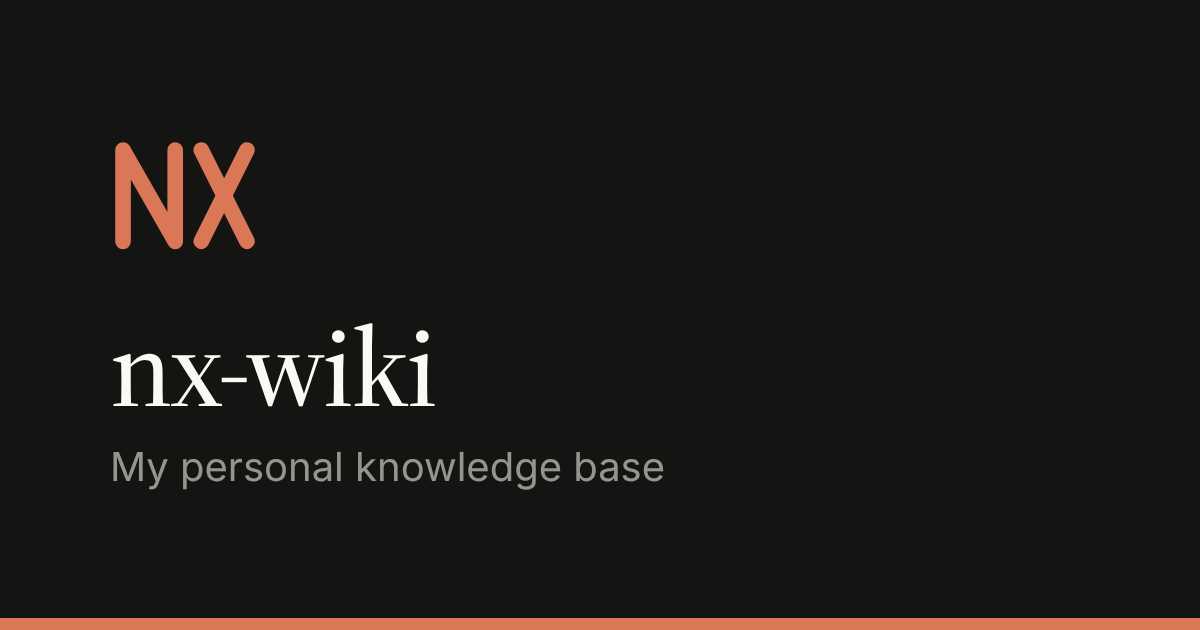
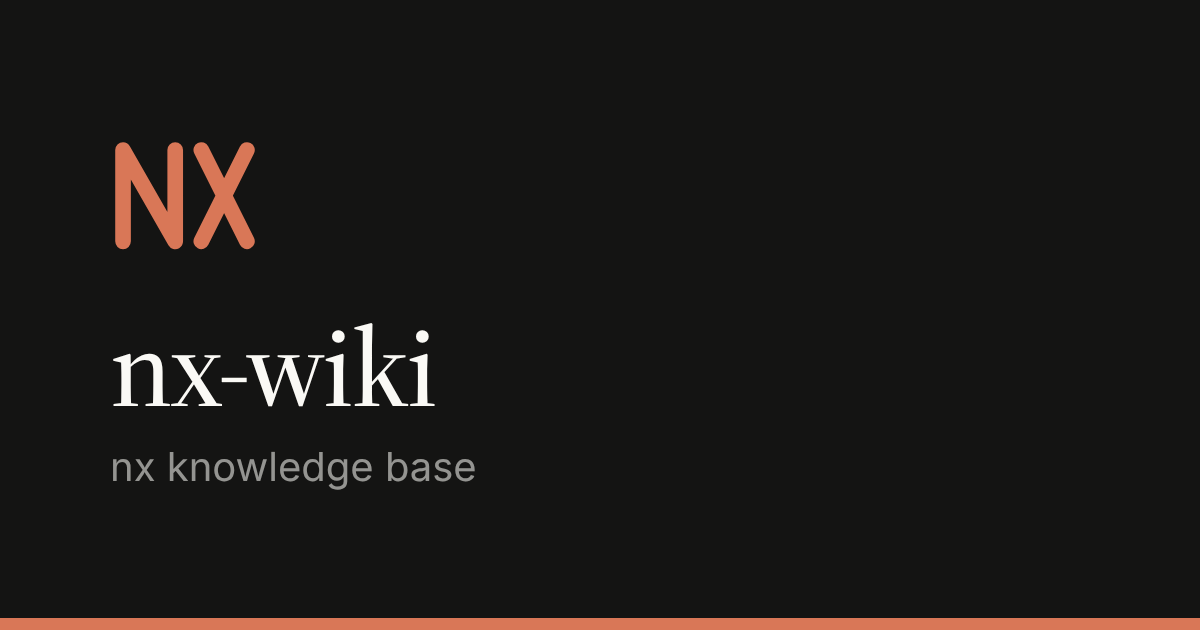
Change the site description to "nx knowledge base"
Used by the link preview card, the page description tag and the app
manifest. The card image is regenerated.

Claude-Session: https://claude.ai/code/session_01Kh1C7S9jdfjJkbH6J2Rsd3

Changed region(s): [[0.0925, 0.7238, 0.555, 0.7841]]

diff --git a/scripts/social_card.js b/scripts/social_card.js
@@ -18,7 +18,7 @@ const html = `<!doctype html><html><head>
 </style></head><body>
   <div class="logo">${logo}</div>
   <h1>nx-wiki</h1>
-  <p>My personal knowledge base</p>
+  <p>nx knowledge base</p>
   <div class="bar"></div>
 </body></html>`;
 
